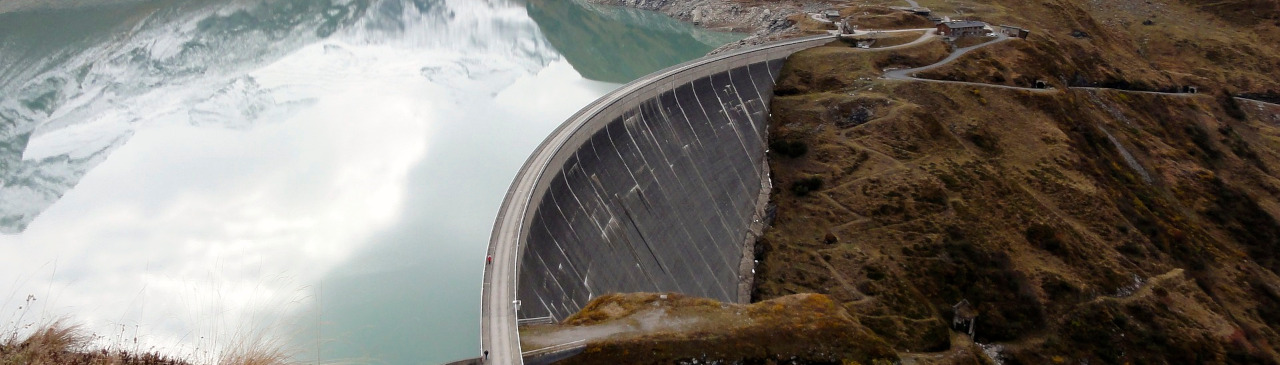
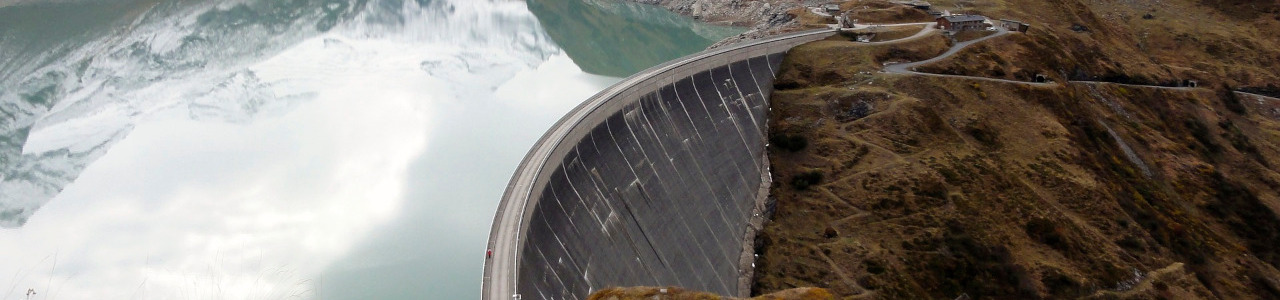
Bilder neu zugeschnitten und über den Texten eingefügt

diff --git a/index.html b/index.html
@@ -96,6 +96,9 @@
 
                 <br></br>
 
+                <div class="img_wasserkraft">
+                    <img src="images/waterpower.jpg" alt="Wasserkraft">
+                </div>
                 <div class="text_wasserkraft">
                     <h2>Die wichtigsten erneuerbaren Energien</h2>
                     <h3 id="wasserkraft">Wasserkraft</h3>
@@ -169,6 +172,9 @@
 
                 <br></br>
 
+                <div class="img_windkraft">
+                    <img src="images/windpower.jpg" alt="Windkraft">
+                </div>
                 <div class="text_windkraft">
                     <h3 id="windkraft">Windkraft</h3>
                     <p><strong>Definition und technik</strong></p>
@@ -230,6 +236,9 @@
 
                 <br></br>
 
+                <div class="img_sonnenenergie">
+                    <img src="images/solarpower.jpg" alt="Sonnenenergie">
+                </div>
                 <div class="text_sonnenenergie">
                     <h3 id="sonnenenergie">Sonnenenergie</h3>
                     <p><strong>Definition und technik</strong></p>
@@ -310,6 +319,9 @@
 
                 <br></br>
 
+                <div class="img_biomasse">
+                    <img src="images/bioenergy.jpg" alt="Biogas">
+                </div>
                 <div class="text_biomasse">
                     <h3 id="biomasse">Biomasse</h3>
                     <p><strong>Definition und technik</strong></p>

diff --git a/main.css b/main.css
@@ -31,8 +31,8 @@ footer {
 
 /*article einrücken*/
 article {
-  margin-left: 60px;
-  margin-right: 60px;
+  margin-left: 150px;
+  margin-right: 150px;
 }
 
 #überschrift-Container {
@@ -54,7 +54,7 @@ img {
 
 #wasserkraft::before {
   content: '';
-  display: block; 
+  display: block;
   height: 95px;
   margin-top: -95px;
 }
@@ -66,7 +66,7 @@ img {
 
 #windkraft::before {
   content: '';
-  display: block; 
+  display: block;
   height: 95px;
   margin-top: -95px;
 }
@@ -78,7 +78,7 @@ img {
 
 #sonnenenergie::before {
   content: '';
-  display: block; 
+  display: block;
   height: 95px;
   margin-top: -95px;
 }
@@ -90,7 +90,7 @@ img {
 
 #biomasse::before {
   content: '';
-  display: block; 
+  display: block;
   height: 95px;
   margin-top: -95px;
 }
@@ -102,7 +102,7 @@ img {
 
 #geothermie::before {
   content: '';
-  display: block; 
+  display: block;
   height: 95px;
   margin-top: -95px;
 }
